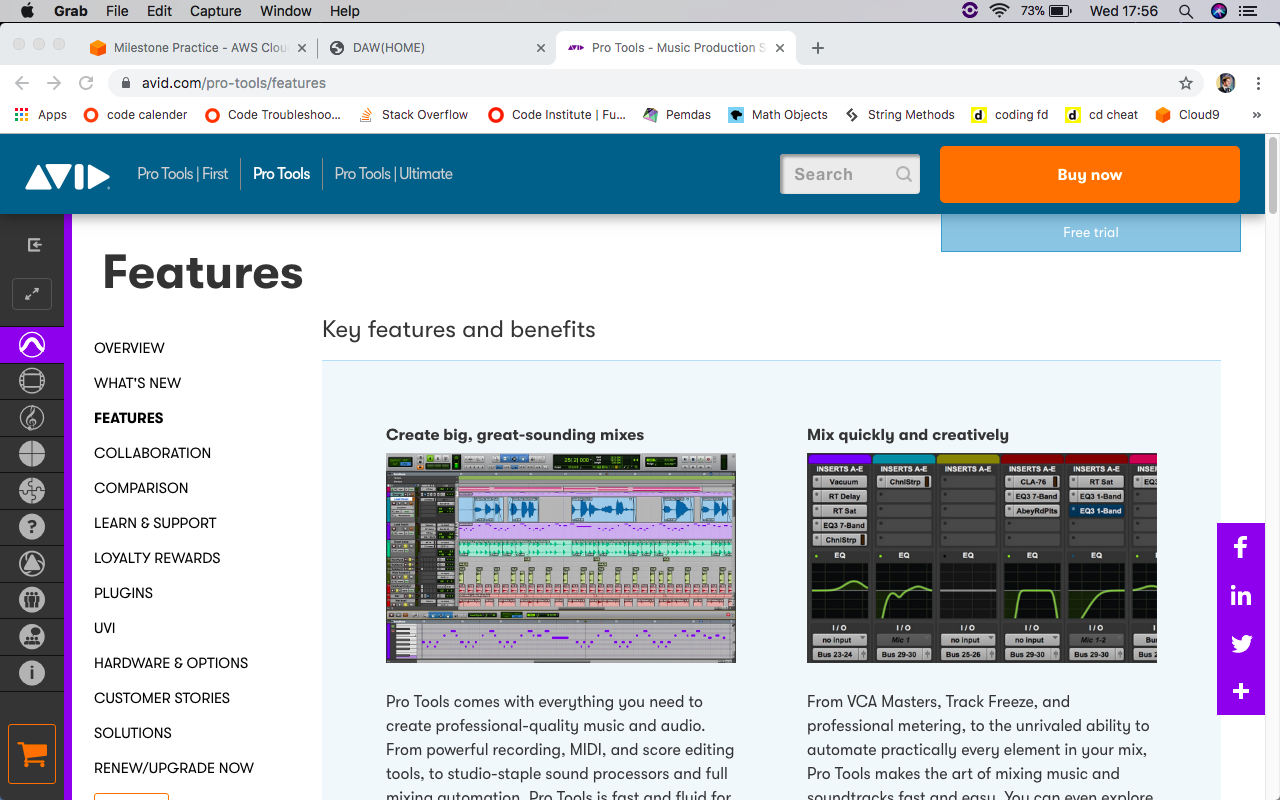
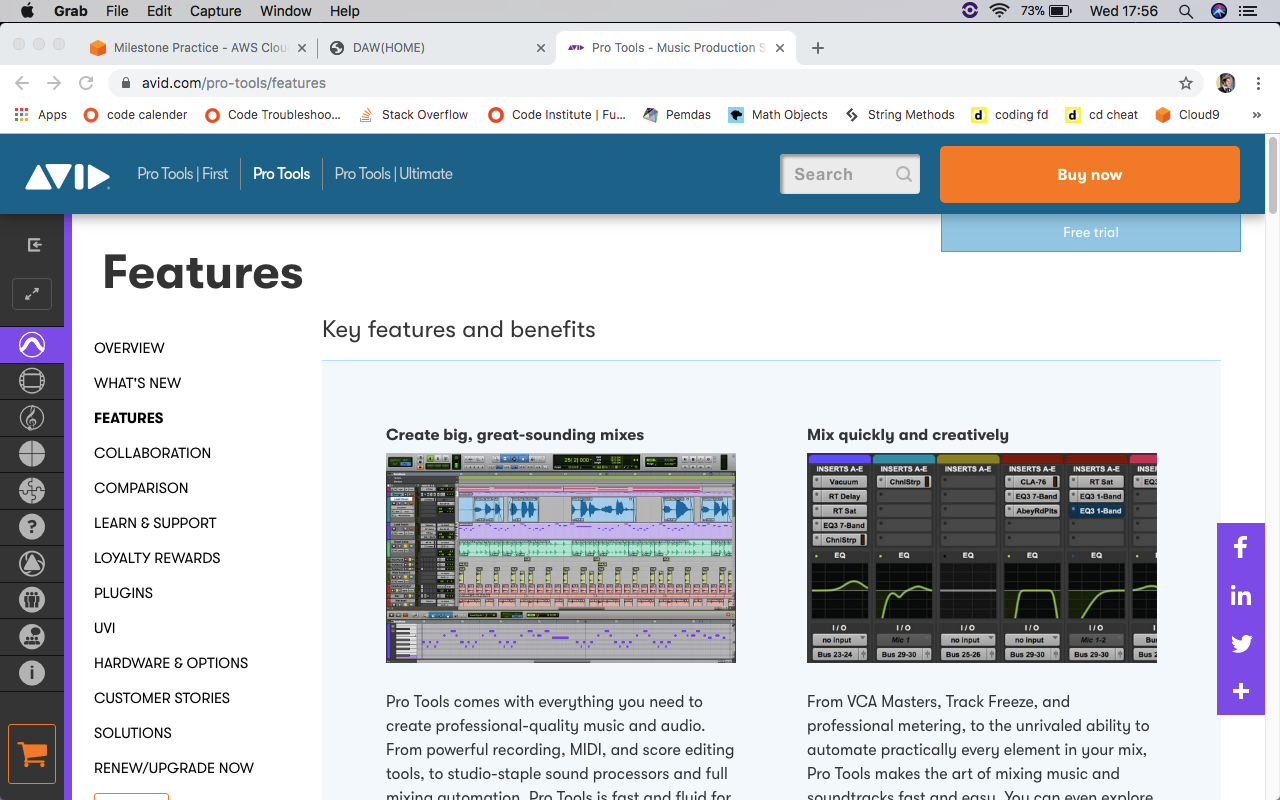
pt md

diff --git a/.c9/metadata/environment/README.md b/.c9/metadata/environment/README.md
@@ -1,1 +1,1 @@
-{"filter":false,"title":"README.md","tooltip":"/README.md","undoManager":{"mark":62,"position":62,"stack":[[{"start":{"row":2,"column":210},"end":{"row":3,"column":0},"action":"insert","lines":["",""],"id":2},{"start":{"row":3,"column":0},"end":{"row":3,"column":1},"action":"insert","lines":["A"]}],[{"start":{"row":3,"column":1},"end":{"row":3,"column":2},"action":"insert","lines":[" "],"id":3},{"start":{"row":3,"column":2},"end":{"row":3,"column":3},"action":"insert","lines":["d"]},{"start":{"row":3,"column":3},"end":{"row":3,"column":4},"action":"insert","lines":["e"]},{"start":{"row":3,"column":4},"end":{"row":3,"column":5},"action":"insert","lines":["p"]},{"start":{"row":3,"column":5},"end":{"row":3,"column":6},"action":"insert","lines":["l"]},{"start":{"row":3,"column":6},"end":{"row":3,"column":7},"action":"insert","lines":["o"]},{"start":{"row":3,"column":7},"end":{"row":3,"column":8},"action":"insert","lines":["y"]},{"start":{"row":3,"column":8},"end":{"row":3,"column":9},"action":"insert","lines":["e"]},{"start":{"row":3,"column":9},"end":{"row":3,"column":10},"action":"insert","lines":["d"]}],[{"start":{"row":3,"column":10},"end":{"row":3,"column":11},"action":"insert","lines":[" "],"id":4},{"start":{"row":3,"column":11},"end":{"row":3,"column":12},"action":"insert","lines":["v"]},{"start":{"row":3,"column":12},"end":{"row":3,"column":13},"action":"insert","lines":["e"]},{"start":{"row":3,"column":13},"end":{"row":3,"column":14},"action":"insert","lines":["r"]},{"start":{"row":3,"column":14},"end":{"row":3,"column":15},"action":"insert","lines":["s"]}],[{"start":{"row":3,"column":14},"end":{"row":3,"column":15},"action":"remove","lines":["s"],"id":5},{"start":{"row":3,"column":13},"end":{"row":3,"column":14},"action":"remove","lines":["r"]}],[{"start":{"row":3,"column":13},"end":{"row":3,"column":14},"action":"insert","lines":["r"],"id":6},{"start":{"row":3,"column":14},"end":{"row":3,"column":15},"action":"insert","lines":["s"]},{"start":{"row":3,"column":15},"end":{"row":3,"column":16},"action":"insert","lines":["e"]},{"start":{"row":3,"column":16},"end":{"row":3,"column":17},"action":"insert","lines":["i"]},{"start":{"row":3,"column":17},"end":{"row":3,"column":18},"action":"insert","lines":["o"]},{"start":{"row":3,"column":18},"end":{"row":3,"column":19},"action":"insert","lines":["n"]}],[{"start":{"row":3,"column":19},"end":{"row":3,"column":20},"action":"insert","lines":[" "],"id":7},{"start":{"row":3,"column":20},"end":{"row":3,"column":21},"action":"insert","lines":["o"]},{"start":{"row":3,"column":21},"end":{"row":3,"column":22},"action":"insert","lines":["f"]}],[{"start":{"row":3,"column":22},"end":{"row":3,"column":23},"action":"insert","lines":[" "],"id":8},{"start":{"row":3,"column":23},"end":{"row":3,"column":24},"action":"insert","lines":["t"]},{"start":{"row":3,"column":24},"end":{"row":3,"column":25},"action":"insert","lines":["h"]},{"start":{"row":3,"column":25},"end":{"row":3,"column":26},"action":"insert","lines":["i"]},{"start":{"row":3,"column":26},"end":{"row":3,"column":27},"action":"insert","lines":["s"]}],[{"start":{"row":3,"column":27},"end":{"row":3,"column":28},"action":"insert","lines":[" "],"id":9},{"start":{"row":3,"column":28},"end":{"row":3,"column":29},"action":"insert","lines":["w"]},{"start":{"row":3,"column":29},"end":{"row":3,"column":30},"action":"insert","lines":["e"]},{"start":{"row":3,"column":30},"end":{"row":3,"column":31},"action":"insert","lines":["b"]},{"start":{"row":3,"column":31},"end":{"row":3,"column":32},"action":"insert","lines":["s"]},{"start":{"row":3,"column":32},"end":{"row":3,"column":33},"action":"insert","lines":["i"]},{"start":{"row":3,"column":33},"end":{"row":3,"column":34},"action":"insert","lines":["t"]},{"start":{"row":3,"column":34},"end":{"row":3,"column":35},"action":"insert","lines":["e"]}],[{"start":{"row":3,"column":35},"end":{"row":3,"column":36},"action":"insert","lines":[" "],"id":10},{"start":{"row":3,"column":36},"end":{"row":3,"column":37},"action":"insert","lines":["c"]},{"start":{"row":3,"column":37},"end":{"row":3,"column":38},"action":"insert","lines":["a"]},{"start":{"row":3,"column":38},"end":{"row":3,"column":39},"action":"insert","lines":["n"]}],[{"start":{"row":3,"column":39},"end":{"row":3,"column":40},"action":"insert","lines":[" "],"id":11},{"start":{"row":3,"column":40},"end":{"row":3,"column":41},"action":"insert","lines":["b"]},{"start":{"row":3,"column":41},"end":{"row":3,"column":42},"action":"insert","lines":["e"]}],[{"start":{"row":3,"column":42},"end":{"row":3,"column":43},"action":"insert","lines":[" "],"id":12},{"start":{"row":3,"column":43},"end":{"row":3,"column":44},"action":"insert","lines":["f"]},{"start":{"row":3,"column":44},"end":{"row":3,"column":45},"action":"insert","lines":["o"]},{"start":{"row":3,"column":45},"end":{"row":3,"column":46},"action":"insert","lines":["u"]},{"start":{"row":3,"column":46},"end":{"row":3,"column":47},"action":"insert","lines":["n"]},{"start":{"row":3,"column":47},"end":{"row":3,"column":48},"action":"insert","lines":["d"]}],[{"start":{"row":3,"column":48},"end":{"row":3,"column":49},"action":"insert","lines":[" "],"id":13},{"start":{"row":3,"column":49},"end":{"row":3,"column":50},"action":"insert","lines":["h"]},{"start":{"row":3,"column":50},"end":{"row":3,"column":51},"action":"insert","lines":["e"]},{"start":{"row":3,"column":51},"end":{"row":3,"column":52},"action":"insert","lines":["r"]},{"start":{"row":3,"column":52},"end":{"row":3,"column":53},"action":"insert","lines":["e"]},{"start":{"row":3,"column":53},"end":{"row":3,"column":54},"action":"insert","lines":[":"]}],[{"start":{"row":3,"column":54},"end":{"row":3,"column":55},"action":"insert","lines":[" "],"id":14}],[{"start":{"row":3,"column":55},"end":{"row":3,"column":98},"action":"insert","lines":["https://djjtyn.github.io/milestonepractise/"],"id":15}],[{"start":{"row":42,"column":0},"end":{"row":42,"column":82},"action":"insert","lines":["https://github.com/djjtyn/milestonepractise/blob/master/md-images/abletonclick.png"],"id":16}],[{"start":{"row":42,"column":0},"end":{"row":42,"column":82},"action":"remove","lines":["https://github.com/djjtyn/milestonepractise/blob/master/md-images/abletonclick.png"],"id":17},{"start":{"row":42,"column":0},"end":{"row":42,"column":92},"action":"insert","lines":["https://raw.githubusercontent.com/djjtyn/milestonepractise/master/md-images/abletonclick.png"]}],[{"start":{"row":42,"column":0},"end":{"row":42,"column":92},"action":"remove","lines":["https://raw.githubusercontent.com/djjtyn/milestonepractise/master/md-images/abletonclick.png"],"id":18},{"start":{"row":42,"column":0},"end":{"row":42,"column":92},"action":"insert","lines":["https://raw.githubusercontent.com/djjtyn/milestonepractise/master/md-images/abletonclick.png"]}],[{"start":{"row":42,"column":0},"end":{"row":42,"column":92},"action":"remove","lines":["https://raw.githubusercontent.com/djjtyn/milestonepractise/master/md-images/abletonclick.png"],"id":19},{"start":{"row":42,"column":0},"end":{"row":42,"column":28},"action":"insert","lines":["(md-images/abletonclick.png)"]}],[{"start":{"row":42,"column":1},"end":{"row":42,"column":2},"action":"insert","lines":["/"],"id":20}],[{"start":{"row":42,"column":1},"end":{"row":42,"column":2},"action":"remove","lines":["/"],"id":21}],[{"start":{"row":42,"column":0},"end":{"row":42,"column":1},"action":"insert","lines":["{"],"id":24}],[{"start":{"row":42,"column":0},"end":{"row":42,"column":1},"action":"remove","lines":["{"],"id":25}],[{"start":{"row":42,"column":0},"end":{"row":42,"column":1},"action":"insert","lines":["["],"id":26},{"start":{"row":42,"column":1},"end":{"row":42,"column":2},"action":"insert","lines":["]"]}],[{"start":{"row":42,"column":0},"end":{"row":42,"column":30},"action":"remove","lines":["[](md-images/abletonclick.png)"],"id":27}],[{"start":{"row":42,"column":0},"end":{"row":43,"column":44},"action":"insert","lines":["","![Able to Click](md-images/abletonclick.png)"],"id":28}],[{"start":{"row":42,"column":0},"end":{"row":43,"column":0},"action":"remove","lines":["",""],"id":29}],[{"start":{"row":42,"column":0},"end":{"row":42,"column":43},"action":"remove","lines":["![Able to Click](md-images/abletonclick.png"],"id":30},{"start":{"row":42,"column":0},"end":{"row":42,"column":35},"action":"insert","lines":["![image](md-images/abletonclick.png"]}],[{"start":{"row":41,"column":10},"end":{"row":42,"column":0},"action":"insert","lines":["",""],"id":31}],[{"start":{"row":42,"column":0},"end":{"row":42,"column":2},"action":"insert","lines":["()"],"id":32}],[{"start":{"row":42,"column":0},"end":{"row":42,"column":2},"action":"remove","lines":["()"],"id":33}],[{"start":{"row":42,"column":0},"end":{"row":42,"column":1},"action":"insert","lines":["!"],"id":34},{"start":{"row":42,"column":1},"end":{"row":42,"column":2},"action":"insert","lines":["{"]}],[{"start":{"row":42,"column":1},"end":{"row":42,"column":2},"action":"remove","lines":["{"],"id":35}],[{"start":{"row":42,"column":1},"end":{"row":42,"column":3},"action":"insert","lines":["[]"],"id":36}],[{"start":{"row":42,"column":2},"end":{"row":42,"column":3},"action":"insert","lines":["i"],"id":37},{"start":{"row":42,"column":3},"end":{"row":42,"column":4},"action":"insert","lines":["m"]},{"start":{"row":42,"column":4},"end":{"row":42,"column":5},"action":"insert","lines":["a"]},{"start":{"row":42,"column":5},"end":{"row":42,"column":6},"action":"insert","lines":["g"]},{"start":{"row":42,"column":6},"end":{"row":42,"column":7},"action":"insert","lines":["e"]}],[{"start":{"row":42,"column":0},"end":{"row":42,"column":8},"action":"remove","lines":["![image]"],"id":38},{"start":{"row":42,"column":0},"end":{"row":42,"column":36},"action":"insert","lines":["![image](md-images/abletonclick.png)"]}],[{"start":{"row":42,"column":25},"end":{"row":42,"column":26},"action":"remove","lines":["n"],"id":39},{"start":{"row":42,"column":24},"end":{"row":42,"column":25},"action":"remove","lines":["o"]},{"start":{"row":42,"column":23},"end":{"row":42,"column":24},"action":"remove","lines":["t"]},{"start":{"row":42,"column":22},"end":{"row":42,"column":23},"action":"remove","lines":["e"]},{"start":{"row":42,"column":21},"end":{"row":42,"column":22},"action":"remove","lines":["l"]},{"start":{"row":42,"column":20},"end":{"row":42,"column":21},"action":"remove","lines":["b"]},{"start":{"row":42,"column":19},"end":{"row":42,"column":20},"action":"remove","lines":["a"]}],[{"start":{"row":42,"column":19},"end":{"row":42,"column":20},"action":"insert","lines":["p"],"id":40},{"start":{"row":42,"column":20},"end":{"row":42,"column":21},"action":"insert","lines":["r"]},{"start":{"row":42,"column":21},"end":{"row":42,"column":22},"action":"insert","lines":["o"]}],[{"start":{"row":42,"column":22},"end":{"row":42,"column":23},"action":"insert","lines":["-"],"id":41},{"start":{"row":42,"column":23},"end":{"row":42,"column":24},"action":"insert","lines":["t"]},{"start":{"row":42,"column":24},"end":{"row":42,"column":25},"action":"insert","lines":["o"]},{"start":{"row":42,"column":25},"end":{"row":42,"column":26},"action":"insert","lines":["o"]},{"start":{"row":42,"column":26},"end":{"row":42,"column":27},"action":"insert","lines":["l"]},{"start":{"row":42,"column":27},"end":{"row":42,"column":28},"action":"insert","lines":["s"]}],[{"start":{"row":42,"column":28},"end":{"row":42,"column":29},"action":"insert","lines":["-"],"id":42}],[{"start":{"row":41,"column":10},"end":{"row":42,"column":0},"action":"insert","lines":["",""],"id":43},{"start":{"row":42,"column":0},"end":{"row":43,"column":0},"action":"insert","lines":["",""]}],[{"start":{"row":43,"column":0},"end":{"row":43,"column":1},"action":"insert","lines":["#"],"id":44},{"start":{"row":43,"column":1},"end":{"row":43,"column":2},"action":"insert","lines":["#"]},{"start":{"row":43,"column":2},"end":{"row":43,"column":3},"action":"insert","lines":["#"]},{"start":{"row":43,"column":3},"end":{"row":43,"column":4},"action":"insert","lines":["P"]},{"start":{"row":43,"column":4},"end":{"row":43,"column":5},"action":"insert","lines":["r"]},{"start":{"row":43,"column":5},"end":{"row":43,"column":6},"action":"insert","lines":["o"]}],[{"start":{"row":43,"column":6},"end":{"row":43,"column":7},"action":"insert","lines":[" "],"id":45},{"start":{"row":43,"column":7},"end":{"row":43,"column":8},"action":"insert","lines":["T"]},{"start":{"row":43,"column":8},"end":{"row":43,"column":9},"action":"insert","lines":["o"]},{"start":{"row":43,"column":9},"end":{"row":43,"column":10},"action":"insert","lines":["o"]},{"start":{"row":43,"column":10},"end":{"row":43,"column":11},"action":"insert","lines":["l"]},{"start":{"row":43,"column":11},"end":{"row":43,"column":12},"action":"insert","lines":["s"]}],[{"start":{"row":43,"column":12},"end":{"row":43,"column":13},"action":"insert","lines":[" "],"id":46},{"start":{"row":43,"column":13},"end":{"row":43,"column":14},"action":"insert","lines":["i"]},{"start":{"row":43,"column":14},"end":{"row":43,"column":15},"action":"insert","lines":["c"]},{"start":{"row":43,"column":15},"end":{"row":43,"column":16},"action":"insert","lines":["o"]},{"start":{"row":43,"column":16},"end":{"row":43,"column":17},"action":"insert","lines":["n"]}],[{"start":{"row":43,"column":17},"end":{"row":43,"column":18},"action":"insert","lines":[" "],"id":47},{"start":{"row":43,"column":18},"end":{"row":43,"column":19},"action":"insert","lines":["C"]},{"start":{"row":43,"column":19},"end":{"row":43,"column":20},"action":"insert","lines":["L"]},{"start":{"row":43,"column":20},"end":{"row":43,"column":21},"action":"insert","lines":["i"]},{"start":{"row":43,"column":21},"end":{"row":43,"column":22},"action":"insert","lines":["c"]},{"start":{"row":43,"column":22},"end":{"row":43,"column":23},"action":"insert","lines":["k"]}],[{"start":{"row":43,"column":22},"end":{"row":43,"column":23},"action":"remove","lines":["k"],"id":48},{"start":{"row":43,"column":21},"end":{"row":43,"column":22},"action":"remove","lines":["c"]},{"start":{"row":43,"column":20},"end":{"row":43,"column":21},"action":"remove","lines":["i"]},{"start":{"row":43,"column":19},"end":{"row":43,"column":20},"action":"remove","lines":["L"]}],[{"start":{"row":43,"column":19},"end":{"row":43,"column":20},"action":"insert","lines":["l"],"id":49},{"start":{"row":43,"column":20},"end":{"row":43,"column":21},"action":"insert","lines":["i"]},{"start":{"row":43,"column":21},"end":{"row":43,"column":22},"action":"insert","lines":["c"]},{"start":{"row":43,"column":22},"end":{"row":43,"column":23},"action":"insert","lines":["k"]}],[{"start":{"row":43,"column":23},"end":{"row":43,"column":24},"action":"insert","lines":[" "],"id":50},{"start":{"row":43,"column":24},"end":{"row":43,"column":25},"action":"insert","lines":["A"]},{"start":{"row":43,"column":25},"end":{"row":43,"column":26},"action":"insert","lines":["c"]},{"start":{"row":43,"column":26},"end":{"row":43,"column":27},"action":"insert","lines":["t"]},{"start":{"row":43,"column":27},"end":{"row":43,"column":28},"action":"insert","lines":["i"]},{"start":{"row":43,"column":28},"end":{"row":43,"column":29},"action":"insert","lines":["o"]},{"start":{"row":43,"column":29},"end":{"row":43,"column":30},"action":"insert","lines":["n"]}],[{"start":{"row":44,"column":39},"end":{"row":45,"column":0},"action":"insert","lines":["",""],"id":51},{"start":{"row":45,"column":0},"end":{"row":46,"column":0},"action":"insert","lines":["",""]}],[{"start":{"row":45,"column":0},"end":{"row":46,"column":0},"action":"remove","lines":["",""],"id":52}],[{"start":{"row":45,"column":0},"end":{"row":46,"column":0},"action":"insert","lines":["",""],"id":53}],[{"start":{"row":46,"column":0},"end":{"row":46,"column":30},"action":"insert","lines":["###Pro Tools icon Click Action"],"id":54}],[{"start":{"row":46,"column":29},"end":{"row":46,"column":30},"action":"remove","lines":["n"],"id":55},{"start":{"row":46,"column":28},"end":{"row":46,"column":29},"action":"remove","lines":["o"]},{"start":{"row":46,"column":27},"end":{"row":46,"column":28},"action":"remove","lines":["i"]},{"start":{"row":46,"column":26},"end":{"row":46,"column":27},"action":"remove","lines":["t"]},{"start":{"row":46,"column":25},"end":{"row":46,"column":26},"action":"remove","lines":["c"]},{"start":{"row":46,"column":24},"end":{"row":46,"column":25},"action":"remove","lines":["A"]}],[{"start":{"row":46,"column":24},"end":{"row":46,"column":25},"action":"insert","lines":["R"],"id":56},{"start":{"row":46,"column":25},"end":{"row":46,"column":26},"action":"insert","lines":["e"]},{"start":{"row":46,"column":26},"end":{"row":46,"column":27},"action":"insert","lines":["s"]},{"start":{"row":46,"column":27},"end":{"row":46,"column":28},"action":"insert","lines":["u"]},{"start":{"row":46,"column":28},"end":{"row":46,"column":29},"action":"insert","lines":["l"]},{"start":{"row":46,"column":29},"end":{"row":46,"column":30},"action":"insert","lines":["t"]}],[{"start":{"row":47,"column":30},"end":{"row":47,"column":31},"action":"remove","lines":["k"],"id":59},{"start":{"row":47,"column":29},"end":{"row":47,"column":30},"action":"remove","lines":["c"]},{"start":{"row":47,"column":28},"end":{"row":47,"column":29},"action":"remove","lines":["i"]},{"start":{"row":47,"column":27},"end":{"row":47,"column":28},"action":"remove","lines":["l"]},{"start":{"row":47,"column":26},"end":{"row":47,"column":27},"action":"remove","lines":["c"]},{"start":{"row":47,"column":25},"end":{"row":47,"column":26},"action":"remove","lines":["n"]},{"start":{"row":47,"column":24},"end":{"row":47,"column":25},"action":"remove","lines":["o"]},{"start":{"row":47,"column":23},"end":{"row":47,"column":24},"action":"remove","lines":["t"]},{"start":{"row":47,"column":22},"end":{"row":47,"column":23},"action":"remove","lines":["e"]},{"start":{"row":47,"column":21},"end":{"row":47,"column":22},"action":"remove","lines":["l"]},{"start":{"row":47,"column":20},"end":{"row":47,"column":21},"action":"remove","lines":["b"]},{"start":{"row":47,"column":19},"end":{"row":47,"column":20},"action":"remove","lines":["a"]}],[{"start":{"row":47,"column":19},"end":{"row":47,"column":20},"action":"insert","lines":["r"],"id":60},{"start":{"row":47,"column":20},"end":{"row":47,"column":21},"action":"insert","lines":["o"]}],[{"start":{"row":47,"column":21},"end":{"row":47,"column":22},"action":"insert","lines":["t"],"id":61}],[{"start":{"row":47,"column":21},"end":{"row":47,"column":22},"action":"remove","lines":["t"],"id":62},{"start":{"row":47,"column":20},"end":{"row":47,"column":21},"action":"remove","lines":["o"]},{"start":{"row":47,"column":19},"end":{"row":47,"column":20},"action":"remove","lines":["r"]}],[{"start":{"row":47,"column":19},"end":{"row":47,"column":20},"action":"insert","lines":["p"],"id":63},{"start":{"row":47,"column":20},"end":{"row":47,"column":21},"action":"insert","lines":["r"]},{"start":{"row":47,"column":21},"end":{"row":47,"column":22},"action":"insert","lines":["o"]}],[{"start":{"row":47,"column":22},"end":{"row":47,"column":23},"action":"insert","lines":["t"],"id":64},{"start":{"row":47,"column":23},"end":{"row":47,"column":24},"action":"insert","lines":["o"]},{"start":{"row":47,"column":24},"end":{"row":47,"column":25},"action":"insert","lines":["o"]}],[{"start":{"row":47,"column":24},"end":{"row":47,"column":25},"action":"remove","lines":["o"],"id":65},{"start":{"row":47,"column":23},"end":{"row":47,"column":24},"action":"remove","lines":["o"]},{"start":{"row":47,"column":22},"end":{"row":47,"column":23},"action":"remove","lines":["t"]}],[{"start":{"row":47,"column":22},"end":{"row":47,"column":23},"action":"insert","lines":["-"],"id":66},{"start":{"row":47,"column":23},"end":{"row":47,"column":24},"action":"insert","lines":["t"]},{"start":{"row":47,"column":24},"end":{"row":47,"column":25},"action":"insert","lines":["o"]},{"start":{"row":47,"column":25},"end":{"row":47,"column":26},"action":"insert","lines":["o"]},{"start":{"row":47,"column":26},"end":{"row":47,"column":27},"action":"insert","lines":["l"]},{"start":{"row":47,"column":27},"end":{"row":47,"column":28},"action":"insert","lines":["s"]}],[{"start":{"row":47,"column":28},"end":{"row":47,"column":29},"action":"insert","lines":["-"],"id":67},{"start":{"row":47,"column":29},"end":{"row":47,"column":30},"action":"insert","lines":["f"]},{"start":{"row":47,"column":30},"end":{"row":47,"column":31},"action":"insert","lines":["e"]},{"start":{"row":47,"column":31},"end":{"row":47,"column":32},"action":"insert","lines":["a"]},{"start":{"row":47,"column":32},"end":{"row":47,"column":33},"action":"insert","lines":["t"]},{"start":{"row":47,"column":33},"end":{"row":47,"column":34},"action":"insert","lines":["u"]},{"start":{"row":47,"column":34},"end":{"row":47,"column":35},"action":"insert","lines":["r"]},{"start":{"row":47,"column":35},"end":{"row":47,"column":36},"action":"insert","lines":["e"]}],[{"start":{"row":47,"column":36},"end":{"row":47,"column":37},"action":"insert","lines":["s"],"id":68}]]},"ace":{"folds":[],"scrolltop":1160,"scrollleft":0,"selection":{"start":{"row":47,"column":37},"end":{"row":47,"column":37},"isBackwards":false},"options":{"guessTabSize":true,"useWrapMode":true,"wrapToView":true},"firstLineState":{"row":35,"state":"listblock","mode":"ace/mode/markdown"}},"timestamp":1570884393372,"hash":"3ac563b5ae6c0eb78844aca4b756814843b758c0"}
+{"filter":false,"title":"README.md","tooltip":"/README.md","undoManager":{"mark":64,"position":64,"stack":[[{"start":{"row":2,"column":210},"end":{"row":3,"column":0},"action":"insert","lines":["",""],"id":2},{"start":{"row":3,"column":0},"end":{"row":3,"column":1},"action":"insert","lines":["A"]}],[{"start":{"row":3,"column":1},"end":{"row":3,"column":2},"action":"insert","lines":[" "],"id":3},{"start":{"row":3,"column":2},"end":{"row":3,"column":3},"action":"insert","lines":["d"]},{"start":{"row":3,"column":3},"end":{"row":3,"column":4},"action":"insert","lines":["e"]},{"start":{"row":3,"column":4},"end":{"row":3,"column":5},"action":"insert","lines":["p"]},{"start":{"row":3,"column":5},"end":{"row":3,"column":6},"action":"insert","lines":["l"]},{"start":{"row":3,"column":6},"end":{"row":3,"column":7},"action":"insert","lines":["o"]},{"start":{"row":3,"column":7},"end":{"row":3,"column":8},"action":"insert","lines":["y"]},{"start":{"row":3,"column":8},"end":{"row":3,"column":9},"action":"insert","lines":["e"]},{"start":{"row":3,"column":9},"end":{"row":3,"column":10},"action":"insert","lines":["d"]}],[{"start":{"row":3,"column":10},"end":{"row":3,"column":11},"action":"insert","lines":[" "],"id":4},{"start":{"row":3,"column":11},"end":{"row":3,"column":12},"action":"insert","lines":["v"]},{"start":{"row":3,"column":12},"end":{"row":3,"column":13},"action":"insert","lines":["e"]},{"start":{"row":3,"column":13},"end":{"row":3,"column":14},"action":"insert","lines":["r"]},{"start":{"row":3,"column":14},"end":{"row":3,"column":15},"action":"insert","lines":["s"]}],[{"start":{"row":3,"column":14},"end":{"row":3,"column":15},"action":"remove","lines":["s"],"id":5},{"start":{"row":3,"column":13},"end":{"row":3,"column":14},"action":"remove","lines":["r"]}],[{"start":{"row":3,"column":13},"end":{"row":3,"column":14},"action":"insert","lines":["r"],"id":6},{"start":{"row":3,"column":14},"end":{"row":3,"column":15},"action":"insert","lines":["s"]},{"start":{"row":3,"column":15},"end":{"row":3,"column":16},"action":"insert","lines":["e"]},{"start":{"row":3,"column":16},"end":{"row":3,"column":17},"action":"insert","lines":["i"]},{"start":{"row":3,"column":17},"end":{"row":3,"column":18},"action":"insert","lines":["o"]},{"start":{"row":3,"column":18},"end":{"row":3,"column":19},"action":"insert","lines":["n"]}],[{"start":{"row":3,"column":19},"end":{"row":3,"column":20},"action":"insert","lines":[" "],"id":7},{"start":{"row":3,"column":20},"end":{"row":3,"column":21},"action":"insert","lines":["o"]},{"start":{"row":3,"column":21},"end":{"row":3,"column":22},"action":"insert","lines":["f"]}],[{"start":{"row":3,"column":22},"end":{"row":3,"column":23},"action":"insert","lines":[" "],"id":8},{"start":{"row":3,"column":23},"end":{"row":3,"column":24},"action":"insert","lines":["t"]},{"start":{"row":3,"column":24},"end":{"row":3,"column":25},"action":"insert","lines":["h"]},{"start":{"row":3,"column":25},"end":{"row":3,"column":26},"action":"insert","lines":["i"]},{"start":{"row":3,"column":26},"end":{"row":3,"column":27},"action":"insert","lines":["s"]}],[{"start":{"row":3,"column":27},"end":{"row":3,"column":28},"action":"insert","lines":[" "],"id":9},{"start":{"row":3,"column":28},"end":{"row":3,"column":29},"action":"insert","lines":["w"]},{"start":{"row":3,"column":29},"end":{"row":3,"column":30},"action":"insert","lines":["e"]},{"start":{"row":3,"column":30},"end":{"row":3,"column":31},"action":"insert","lines":["b"]},{"start":{"row":3,"column":31},"end":{"row":3,"column":32},"action":"insert","lines":["s"]},{"start":{"row":3,"column":32},"end":{"row":3,"column":33},"action":"insert","lines":["i"]},{"start":{"row":3,"column":33},"end":{"row":3,"column":34},"action":"insert","lines":["t"]},{"start":{"row":3,"column":34},"end":{"row":3,"column":35},"action":"insert","lines":["e"]}],[{"start":{"row":3,"column":35},"end":{"row":3,"column":36},"action":"insert","lines":[" "],"id":10},{"start":{"row":3,"column":36},"end":{"row":3,"column":37},"action":"insert","lines":["c"]},{"start":{"row":3,"column":37},"end":{"row":3,"column":38},"action":"insert","lines":["a"]},{"start":{"row":3,"column":38},"end":{"row":3,"column":39},"action":"insert","lines":["n"]}],[{"start":{"row":3,"column":39},"end":{"row":3,"column":40},"action":"insert","lines":[" "],"id":11},{"start":{"row":3,"column":40},"end":{"row":3,"column":41},"action":"insert","lines":["b"]},{"start":{"row":3,"column":41},"end":{"row":3,"column":42},"action":"insert","lines":["e"]}],[{"start":{"row":3,"column":42},"end":{"row":3,"column":43},"action":"insert","lines":[" "],"id":12},{"start":{"row":3,"column":43},"end":{"row":3,"column":44},"action":"insert","lines":["f"]},{"start":{"row":3,"column":44},"end":{"row":3,"column":45},"action":"insert","lines":["o"]},{"start":{"row":3,"column":45},"end":{"row":3,"column":46},"action":"insert","lines":["u"]},{"start":{"row":3,"column":46},"end":{"row":3,"column":47},"action":"insert","lines":["n"]},{"start":{"row":3,"column":47},"end":{"row":3,"column":48},"action":"insert","lines":["d"]}],[{"start":{"row":3,"column":48},"end":{"row":3,"column":49},"action":"insert","lines":[" "],"id":13},{"start":{"row":3,"column":49},"end":{"row":3,"column":50},"action":"insert","lines":["h"]},{"start":{"row":3,"column":50},"end":{"row":3,"column":51},"action":"insert","lines":["e"]},{"start":{"row":3,"column":51},"end":{"row":3,"column":52},"action":"insert","lines":["r"]},{"start":{"row":3,"column":52},"end":{"row":3,"column":53},"action":"insert","lines":["e"]},{"start":{"row":3,"column":53},"end":{"row":3,"column":54},"action":"insert","lines":[":"]}],[{"start":{"row":3,"column":54},"end":{"row":3,"column":55},"action":"insert","lines":[" "],"id":14}],[{"start":{"row":3,"column":55},"end":{"row":3,"column":98},"action":"insert","lines":["https://djjtyn.github.io/milestonepractise/"],"id":15}],[{"start":{"row":42,"column":0},"end":{"row":42,"column":82},"action":"insert","lines":["https://github.com/djjtyn/milestonepractise/blob/master/md-images/abletonclick.png"],"id":16}],[{"start":{"row":42,"column":0},"end":{"row":42,"column":82},"action":"remove","lines":["https://github.com/djjtyn/milestonepractise/blob/master/md-images/abletonclick.png"],"id":17},{"start":{"row":42,"column":0},"end":{"row":42,"column":92},"action":"insert","lines":["https://raw.githubusercontent.com/djjtyn/milestonepractise/master/md-images/abletonclick.png"]}],[{"start":{"row":42,"column":0},"end":{"row":42,"column":92},"action":"remove","lines":["https://raw.githubusercontent.com/djjtyn/milestonepractise/master/md-images/abletonclick.png"],"id":18},{"start":{"row":42,"column":0},"end":{"row":42,"column":92},"action":"insert","lines":["https://raw.githubusercontent.com/djjtyn/milestonepractise/master/md-images/abletonclick.png"]}],[{"start":{"row":42,"column":0},"end":{"row":42,"column":92},"action":"remove","lines":["https://raw.githubusercontent.com/djjtyn/milestonepractise/master/md-images/abletonclick.png"],"id":19},{"start":{"row":42,"column":0},"end":{"row":42,"column":28},"action":"insert","lines":["(md-images/abletonclick.png)"]}],[{"start":{"row":42,"column":1},"end":{"row":42,"column":2},"action":"insert","lines":["/"],"id":20}],[{"start":{"row":42,"column":1},"end":{"row":42,"column":2},"action":"remove","lines":["/"],"id":21}],[{"start":{"row":42,"column":0},"end":{"row":42,"column":1},"action":"insert","lines":["{"],"id":24}],[{"start":{"row":42,"column":0},"end":{"row":42,"column":1},"action":"remove","lines":["{"],"id":25}],[{"start":{"row":42,"column":0},"end":{"row":42,"column":1},"action":"insert","lines":["["],"id":26},{"start":{"row":42,"column":1},"end":{"row":42,"column":2},"action":"insert","lines":["]"]}],[{"start":{"row":42,"column":0},"end":{"row":42,"column":30},"action":"remove","lines":["[](md-images/abletonclick.png)"],"id":27}],[{"start":{"row":42,"column":0},"end":{"row":43,"column":44},"action":"insert","lines":["","![Able to Click](md-images/abletonclick.png)"],"id":28}],[{"start":{"row":42,"column":0},"end":{"row":43,"column":0},"action":"remove","lines":["",""],"id":29}],[{"start":{"row":42,"column":0},"end":{"row":42,"column":43},"action":"remove","lines":["![Able to Click](md-images/abletonclick.png"],"id":30},{"start":{"row":42,"column":0},"end":{"row":42,"column":35},"action":"insert","lines":["![image](md-images/abletonclick.png"]}],[{"start":{"row":41,"column":10},"end":{"row":42,"column":0},"action":"insert","lines":["",""],"id":31}],[{"start":{"row":42,"column":0},"end":{"row":42,"column":2},"action":"insert","lines":["()"],"id":32}],[{"start":{"row":42,"column":0},"end":{"row":42,"column":2},"action":"remove","lines":["()"],"id":33}],[{"start":{"row":42,"column":0},"end":{"row":42,"column":1},"action":"insert","lines":["!"],"id":34},{"start":{"row":42,"column":1},"end":{"row":42,"column":2},"action":"insert","lines":["{"]}],[{"start":{"row":42,"column":1},"end":{"row":42,"column":2},"action":"remove","lines":["{"],"id":35}],[{"start":{"row":42,"column":1},"end":{"row":42,"column":3},"action":"insert","lines":["[]"],"id":36}],[{"start":{"row":42,"column":2},"end":{"row":42,"column":3},"action":"insert","lines":["i"],"id":37},{"start":{"row":42,"column":3},"end":{"row":42,"column":4},"action":"insert","lines":["m"]},{"start":{"row":42,"column":4},"end":{"row":42,"column":5},"action":"insert","lines":["a"]},{"start":{"row":42,"column":5},"end":{"row":42,"column":6},"action":"insert","lines":["g"]},{"start":{"row":42,"column":6},"end":{"row":42,"column":7},"action":"insert","lines":["e"]}],[{"start":{"row":42,"column":0},"end":{"row":42,"column":8},"action":"remove","lines":["![image]"],"id":38},{"start":{"row":42,"column":0},"end":{"row":42,"column":36},"action":"insert","lines":["![image](md-images/abletonclick.png)"]}],[{"start":{"row":42,"column":25},"end":{"row":42,"column":26},"action":"remove","lines":["n"],"id":39},{"start":{"row":42,"column":24},"end":{"row":42,"column":25},"action":"remove","lines":["o"]},{"start":{"row":42,"column":23},"end":{"row":42,"column":24},"action":"remove","lines":["t"]},{"start":{"row":42,"column":22},"end":{"row":42,"column":23},"action":"remove","lines":["e"]},{"start":{"row":42,"column":21},"end":{"row":42,"column":22},"action":"remove","lines":["l"]},{"start":{"row":42,"column":20},"end":{"row":42,"column":21},"action":"remove","lines":["b"]},{"start":{"row":42,"column":19},"end":{"row":42,"column":20},"action":"remove","lines":["a"]}],[{"start":{"row":42,"column":19},"end":{"row":42,"column":20},"action":"insert","lines":["p"],"id":40},{"start":{"row":42,"column":20},"end":{"row":42,"column":21},"action":"insert","lines":["r"]},{"start":{"row":42,"column":21},"end":{"row":42,"column":22},"action":"insert","lines":["o"]}],[{"start":{"row":42,"column":22},"end":{"row":42,"column":23},"action":"insert","lines":["-"],"id":41},{"start":{"row":42,"column":23},"end":{"row":42,"column":24},"action":"insert","lines":["t"]},{"start":{"row":42,"column":24},"end":{"row":42,"column":25},"action":"insert","lines":["o"]},{"start":{"row":42,"column":25},"end":{"row":42,"column":26},"action":"insert","lines":["o"]},{"start":{"row":42,"column":26},"end":{"row":42,"column":27},"action":"insert","lines":["l"]},{"start":{"row":42,"column":27},"end":{"row":42,"column":28},"action":"insert","lines":["s"]}],[{"start":{"row":42,"column":28},"end":{"row":42,"column":29},"action":"insert","lines":["-"],"id":42}],[{"start":{"row":41,"column":10},"end":{"row":42,"column":0},"action":"insert","lines":["",""],"id":43},{"start":{"row":42,"column":0},"end":{"row":43,"column":0},"action":"insert","lines":["",""]}],[{"start":{"row":43,"column":0},"end":{"row":43,"column":1},"action":"insert","lines":["#"],"id":44},{"start":{"row":43,"column":1},"end":{"row":43,"column":2},"action":"insert","lines":["#"]},{"start":{"row":43,"column":2},"end":{"row":43,"column":3},"action":"insert","lines":["#"]},{"start":{"row":43,"column":3},"end":{"row":43,"column":4},"action":"insert","lines":["P"]},{"start":{"row":43,"column":4},"end":{"row":43,"column":5},"action":"insert","lines":["r"]},{"start":{"row":43,"column":5},"end":{"row":43,"column":6},"action":"insert","lines":["o"]}],[{"start":{"row":43,"column":6},"end":{"row":43,"column":7},"action":"insert","lines":[" "],"id":45},{"start":{"row":43,"column":7},"end":{"row":43,"column":8},"action":"insert","lines":["T"]},{"start":{"row":43,"column":8},"end":{"row":43,"column":9},"action":"insert","lines":["o"]},{"start":{"row":43,"column":9},"end":{"row":43,"column":10},"action":"insert","lines":["o"]},{"start":{"row":43,"column":10},"end":{"row":43,"column":11},"action":"insert","lines":["l"]},{"start":{"row":43,"column":11},"end":{"row":43,"column":12},"action":"insert","lines":["s"]}],[{"start":{"row":43,"column":12},"end":{"row":43,"column":13},"action":"insert","lines":[" "],"id":46},{"start":{"row":43,"column":13},"end":{"row":43,"column":14},"action":"insert","lines":["i"]},{"start":{"row":43,"column":14},"end":{"row":43,"column":15},"action":"insert","lines":["c"]},{"start":{"row":43,"column":15},"end":{"row":43,"column":16},"action":"insert","lines":["o"]},{"start":{"row":43,"column":16},"end":{"row":43,"column":17},"action":"insert","lines":["n"]}],[{"start":{"row":43,"column":17},"end":{"row":43,"column":18},"action":"insert","lines":[" "],"id":47},{"start":{"row":43,"column":18},"end":{"row":43,"column":19},"action":"insert","lines":["C"]},{"start":{"row":43,"column":19},"end":{"row":43,"column":20},"action":"insert","lines":["L"]},{"start":{"row":43,"column":20},"end":{"row":43,"column":21},"action":"insert","lines":["i"]},{"start":{"row":43,"column":21},"end":{"row":43,"column":22},"action":"insert","lines":["c"]},{"start":{"row":43,"column":22},"end":{"row":43,"column":23},"action":"insert","lines":["k"]}],[{"start":{"row":43,"column":22},"end":{"row":43,"column":23},"action":"remove","lines":["k"],"id":48},{"start":{"row":43,"column":21},"end":{"row":43,"column":22},"action":"remove","lines":["c"]},{"start":{"row":43,"column":20},"end":{"row":43,"column":21},"action":"remove","lines":["i"]},{"start":{"row":43,"column":19},"end":{"row":43,"column":20},"action":"remove","lines":["L"]}],[{"start":{"row":43,"column":19},"end":{"row":43,"column":20},"action":"insert","lines":["l"],"id":49},{"start":{"row":43,"column":20},"end":{"row":43,"column":21},"action":"insert","lines":["i"]},{"start":{"row":43,"column":21},"end":{"row":43,"column":22},"action":"insert","lines":["c"]},{"start":{"row":43,"column":22},"end":{"row":43,"column":23},"action":"insert","lines":["k"]}],[{"start":{"row":43,"column":23},"end":{"row":43,"column":24},"action":"insert","lines":[" "],"id":50},{"start":{"row":43,"column":24},"end":{"row":43,"column":25},"action":"insert","lines":["A"]},{"start":{"row":43,"column":25},"end":{"row":43,"column":26},"action":"insert","lines":["c"]},{"start":{"row":43,"column":26},"end":{"row":43,"column":27},"action":"insert","lines":["t"]},{"start":{"row":43,"column":27},"end":{"row":43,"column":28},"action":"insert","lines":["i"]},{"start":{"row":43,"column":28},"end":{"row":43,"column":29},"action":"insert","lines":["o"]},{"start":{"row":43,"column":29},"end":{"row":43,"column":30},"action":"insert","lines":["n"]}],[{"start":{"row":44,"column":39},"end":{"row":45,"column":0},"action":"insert","lines":["",""],"id":51},{"start":{"row":45,"column":0},"end":{"row":46,"column":0},"action":"insert","lines":["",""]}],[{"start":{"row":45,"column":0},"end":{"row":46,"column":0},"action":"remove","lines":["",""],"id":52}],[{"start":{"row":45,"column":0},"end":{"row":46,"column":0},"action":"insert","lines":["",""],"id":53}],[{"start":{"row":46,"column":0},"end":{"row":46,"column":30},"action":"insert","lines":["###Pro Tools icon Click Action"],"id":54}],[{"start":{"row":46,"column":29},"end":{"row":46,"column":30},"action":"remove","lines":["n"],"id":55},{"start":{"row":46,"column":28},"end":{"row":46,"column":29},"action":"remove","lines":["o"]},{"start":{"row":46,"column":27},"end":{"row":46,"column":28},"action":"remove","lines":["i"]},{"start":{"row":46,"column":26},"end":{"row":46,"column":27},"action":"remove","lines":["t"]},{"start":{"row":46,"column":25},"end":{"row":46,"column":26},"action":"remove","lines":["c"]},{"start":{"row":46,"column":24},"end":{"row":46,"column":25},"action":"remove","lines":["A"]}],[{"start":{"row":46,"column":24},"end":{"row":46,"column":25},"action":"insert","lines":["R"],"id":56},{"start":{"row":46,"column":25},"end":{"row":46,"column":26},"action":"insert","lines":["e"]},{"start":{"row":46,"column":26},"end":{"row":46,"column":27},"action":"insert","lines":["s"]},{"start":{"row":46,"column":27},"end":{"row":46,"column":28},"action":"insert","lines":["u"]},{"start":{"row":46,"column":28},"end":{"row":46,"column":29},"action":"insert","lines":["l"]},{"start":{"row":46,"column":29},"end":{"row":46,"column":30},"action":"insert","lines":["t"]}],[{"start":{"row":47,"column":30},"end":{"row":47,"column":31},"action":"remove","lines":["k"],"id":59},{"start":{"row":47,"column":29},"end":{"row":47,"column":30},"action":"remove","lines":["c"]},{"start":{"row":47,"column":28},"end":{"row":47,"column":29},"action":"remove","lines":["i"]},{"start":{"row":47,"column":27},"end":{"row":47,"column":28},"action":"remove","lines":["l"]},{"start":{"row":47,"column":26},"end":{"row":47,"column":27},"action":"remove","lines":["c"]},{"start":{"row":47,"column":25},"end":{"row":47,"column":26},"action":"remove","lines":["n"]},{"start":{"row":47,"column":24},"end":{"row":47,"column":25},"action":"remove","lines":["o"]},{"start":{"row":47,"column":23},"end":{"row":47,"column":24},"action":"remove","lines":["t"]},{"start":{"row":47,"column":22},"end":{"row":47,"column":23},"action":"remove","lines":["e"]},{"start":{"row":47,"column":21},"end":{"row":47,"column":22},"action":"remove","lines":["l"]},{"start":{"row":47,"column":20},"end":{"row":47,"column":21},"action":"remove","lines":["b"]},{"start":{"row":47,"column":19},"end":{"row":47,"column":20},"action":"remove","lines":["a"]}],[{"start":{"row":47,"column":19},"end":{"row":47,"column":20},"action":"insert","lines":["r"],"id":60},{"start":{"row":47,"column":20},"end":{"row":47,"column":21},"action":"insert","lines":["o"]}],[{"start":{"row":47,"column":21},"end":{"row":47,"column":22},"action":"insert","lines":["t"],"id":61}],[{"start":{"row":47,"column":21},"end":{"row":47,"column":22},"action":"remove","lines":["t"],"id":62},{"start":{"row":47,"column":20},"end":{"row":47,"column":21},"action":"remove","lines":["o"]},{"start":{"row":47,"column":19},"end":{"row":47,"column":20},"action":"remove","lines":["r"]}],[{"start":{"row":47,"column":19},"end":{"row":47,"column":20},"action":"insert","lines":["p"],"id":63},{"start":{"row":47,"column":20},"end":{"row":47,"column":21},"action":"insert","lines":["r"]},{"start":{"row":47,"column":21},"end":{"row":47,"column":22},"action":"insert","lines":["o"]}],[{"start":{"row":47,"column":22},"end":{"row":47,"column":23},"action":"insert","lines":["t"],"id":64},{"start":{"row":47,"column":23},"end":{"row":47,"column":24},"action":"insert","lines":["o"]},{"start":{"row":47,"column":24},"end":{"row":47,"column":25},"action":"insert","lines":["o"]}],[{"start":{"row":47,"column":24},"end":{"row":47,"column":25},"action":"remove","lines":["o"],"id":65},{"start":{"row":47,"column":23},"end":{"row":47,"column":24},"action":"remove","lines":["o"]},{"start":{"row":47,"column":22},"end":{"row":47,"column":23},"action":"remove","lines":["t"]}],[{"start":{"row":47,"column":22},"end":{"row":47,"column":23},"action":"insert","lines":["-"],"id":66},{"start":{"row":47,"column":23},"end":{"row":47,"column":24},"action":"insert","lines":["t"]},{"start":{"row":47,"column":24},"end":{"row":47,"column":25},"action":"insert","lines":["o"]},{"start":{"row":47,"column":25},"end":{"row":47,"column":26},"action":"insert","lines":["o"]},{"start":{"row":47,"column":26},"end":{"row":47,"column":27},"action":"insert","lines":["l"]},{"start":{"row":47,"column":27},"end":{"row":47,"column":28},"action":"insert","lines":["s"]}],[{"start":{"row":47,"column":28},"end":{"row":47,"column":29},"action":"insert","lines":["-"],"id":67},{"start":{"row":47,"column":29},"end":{"row":47,"column":30},"action":"insert","lines":["f"]},{"start":{"row":47,"column":30},"end":{"row":47,"column":31},"action":"insert","lines":["e"]},{"start":{"row":47,"column":31},"end":{"row":47,"column":32},"action":"insert","lines":["a"]},{"start":{"row":47,"column":32},"end":{"row":47,"column":33},"action":"insert","lines":["t"]},{"start":{"row":47,"column":33},"end":{"row":47,"column":34},"action":"insert","lines":["u"]},{"start":{"row":47,"column":34},"end":{"row":47,"column":35},"action":"insert","lines":["r"]},{"start":{"row":47,"column":35},"end":{"row":47,"column":36},"action":"insert","lines":["e"]}],[{"start":{"row":47,"column":36},"end":{"row":47,"column":37},"action":"insert","lines":["s"],"id":68}],[{"start":{"row":43,"column":3},"end":{"row":43,"column":4},"action":"insert","lines":[" "],"id":69}],[{"start":{"row":46,"column":3},"end":{"row":46,"column":4},"action":"insert","lines":[" "],"id":70}]]},"ace":{"folds":[],"scrolltop":1160,"scrollleft":0,"selection":{"start":{"row":46,"column":4},"end":{"row":46,"column":4},"isBackwards":false},"options":{"guessTabSize":true,"useWrapMode":true,"wrapToView":true},"firstLineState":{"row":35,"state":"listblock","mode":"ace/mode/markdown"}},"timestamp":1570884707359,"hash":"505130f901989caf1dcfa6d71ed9ad5fb1d4fd0b"}

diff --git a/README.md b/README.md
@@ -41,10 +41,10 @@ I have incorporated JavaScript in this project to allow the navigation headings 
 
 ## Testing
 
-###Pro Tools icon Click Action
+### Pro Tools icon Click Action
 ![image](md-images/pro-tools-click.png)
 
-###Pro Tools icon Click Result
+### Pro Tools icon Click Result
 ![image](md-images/pro-tools-features.png)
 
 ### Validation
